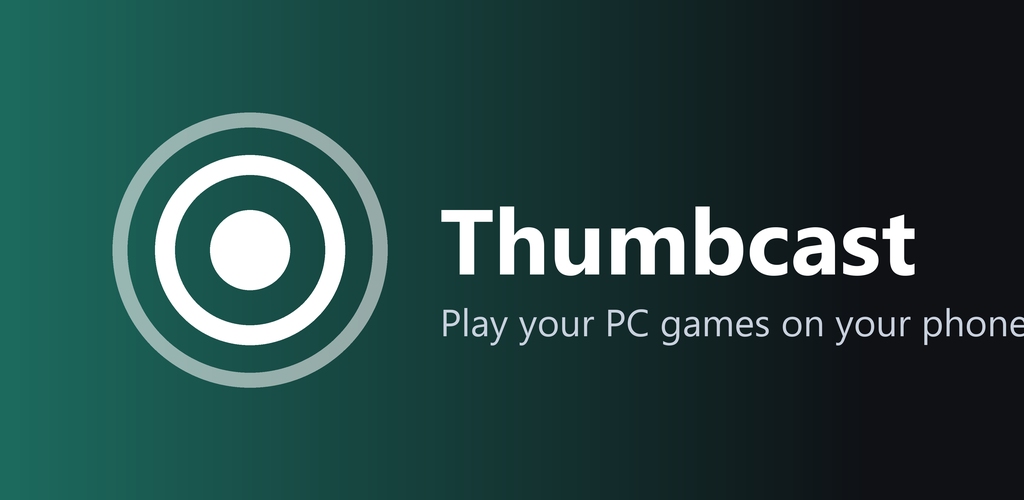
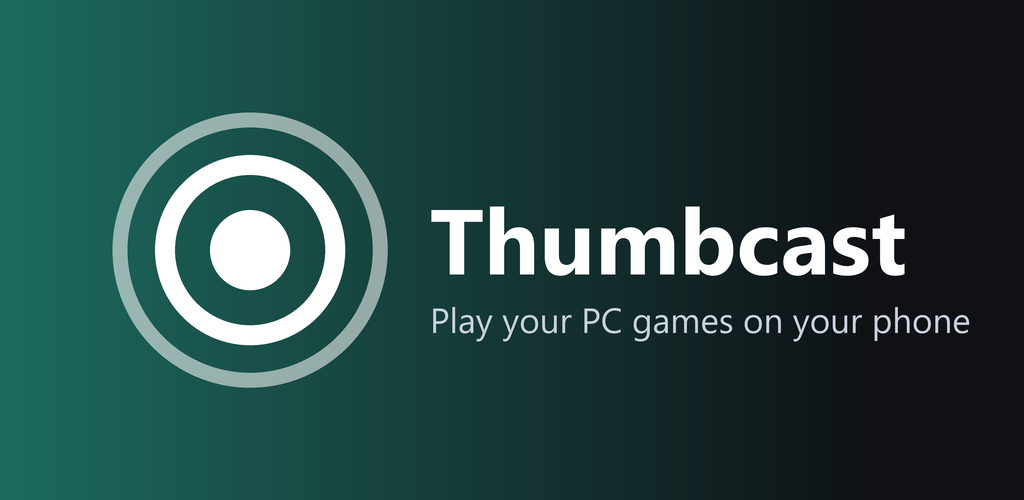
Grafika sklepu: tekst dopasowany do szerokości (angielska wersja wychodziła poza obraz)

Changed region(s): [[0.4062, 0.39, 0.9062, 0.57], [0.4062, 0.6, 1.0, 0.69]]

diff --git a/tools/render_store_assets.py b/tools/render_store_assets.py
@@ -58,9 +58,19 @@ def feature_graphic(title, tagline, path):
     draw_mark(img, 250 * SS, h / 2, 5.0 * SS)
     d = ImageDraw.Draw(img)
     fonts = "C:/Windows/Fonts"
-    f_title = ImageFont.truetype(os.path.join(fonts, "segoeuib.ttf"), 92 * SS)
-    f_tag = ImageFont.truetype(os.path.join(fonts, "segoeui.ttf"), 38 * SS)
-    x = 440 * SS
+    x = 430 * SS
+    max_w = (1024 - 48) * SS - x  # prawy margines 48 px
+
+    def fit(font_file, size):
+        # Największy rozmiar do `size`, przy którym tekst mieści się w max_w (dłuższe teksty, np. angielski).
+        while True:
+            f = ImageFont.truetype(os.path.join(fonts, font_file), size * SS)
+            if size <= 20 or d.textlength(title if font_file == "segoeuib.ttf" else tagline, font=f) <= max_w:
+                return f
+            size -= 1
+
+    f_title = fit("segoeuib.ttf", 92)
+    f_tag = fit("segoeui.ttf", 38)
     d.text((x, 175 * SS), title, font=f_title, fill=WHITE)
     d.text((x, 295 * SS), tagline, font=f_tag, fill=(0xC9, 0xD1, 0xDE))
     # Play: grafika bez przezroczystości (JPEG albo 24-bitowy PNG).
